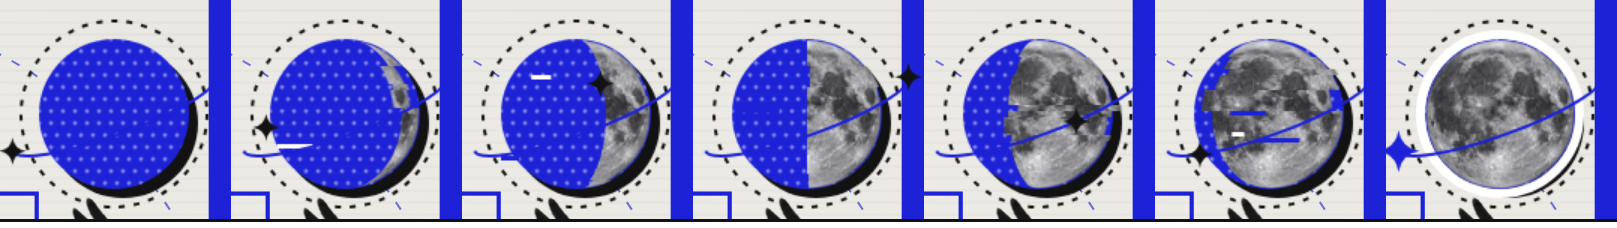
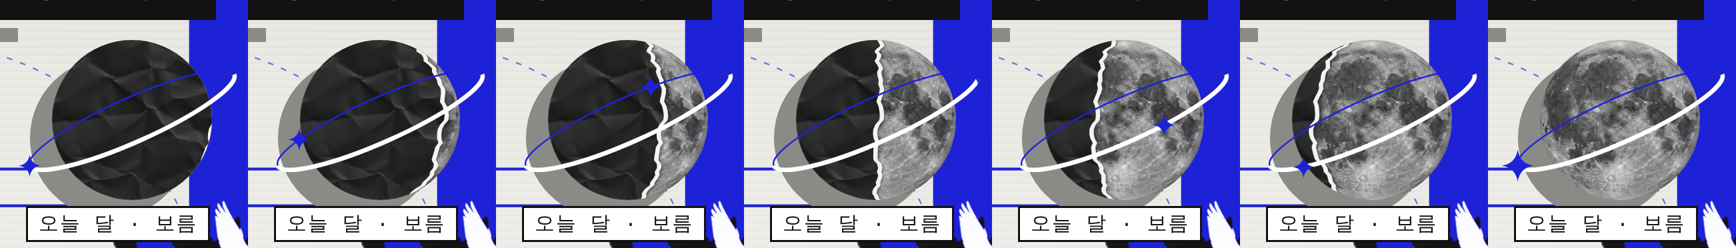
앱 시안: 달을 콜라주 조각으로 — 달 사진 위에 찢은 검은 종이(그림자), 회색 원, 흰 궤도와 파란 별
Claude-Session: https://claude.ai/code/session_015z2jERGhkXRnxmKCmzk3Uw

diff --git a/work/celeste/app/index.html b/work/celeste/app/index.html
@@ -34,8 +34,8 @@
   #time{justify-self:start;font:400 clamp(54px,17vw,88px)/.95 var(--serif);letter-spacing:-.02em;font-variant-numeric:lining-nums tabular-nums;
     margin-top:6px;background:var(--paper2);padding:4px 10px 2px;box-shadow:6px 6px 0 var(--bleu)}
   #time span{color:var(--bleu)}
-  #moonBox{display:flex;flex-direction:column;align-items:center;gap:2px;padding-bottom:4px}
-  #moon{width:76px;height:76px;display:block;margin:-6px 0 -4px}
+  #moonBox{position:relative;z-index:-1;display:flex;flex-direction:column;align-items:center;gap:2px;padding-bottom:4px}
+  #moon{width:124px;height:124px;display:block;margin:-26px -16px -22px -10px}
   #moonTxt{font:10px 'American Typewriter','Courier New',monospace;letter-spacing:.06em;color:var(--ink);white-space:nowrap;background:#fff;padding:1px 5px;outline:1px solid var(--ink)}
   #row{grid-column:1/3;display:flex;gap:8px;align-items:center;margin-top:10px;background:var(--paper2);padding:4px 6px 4px 10px;outline:1px solid var(--ink)}
   #subject{flex:1;min-width:0;border:0;border-bottom:1px solid var(--ink);background:none;font:16px var(--sans);padding:6px 0;
@@ -163,55 +163,44 @@ function moonPath(lit, r = 40){
   const rx = Math.abs(1 - 2*lit)*r, sweep = lit < .5 ? 0 : 1;      // 반달 전엔 그림자 경계가 오른쪽으로, 지나면 왼쪽으로 부푼다
   return `M0 ${-r} A${r} ${r} 0 0 1 0 ${r} A${rx} ${r} 0 0 ${sweep} 0 ${-r}Z`;
 }
-/* 콜라주 달: 밝은 쪽 = 달 사진(흑백), 그림자 쪽 = 클랭 블루 망점 종이.
-   경계는 가로 조각으로 어긋나는 글리치, 작은 궤도와 별이 진행도만큼 돈다. 보름이 되면 흰 스티커 테두리 */
-let moonImg = null, moonLast = '';
-loadImg(PARTS + 'obj_moon.webp').then(i=>{ moonImg = i; moonLast = ''; paint(); });
+/* 콜라주 달: 흑백 달 사진 위에 구겨진 검은 종이를 찢어 덮는다(그림자 쪽).
+   찢긴 경계엔 흰 종이 섬유 + 얇은 그림자. 뒤엔 비켜 놓은 회색 원, 흰 궤도 위 파란 별이 진행도만큼 돈다 */
+let moonImg = null, paperImg = null, moonLast = '';
+Promise.all([loadImg(PARTS + 'obj_moon.webp'), loadImg(PARTS + 'paperBlack.webp')]).then(([m, b])=>{ moonImg = m; paperImg = b; moonLast = ''; paint(); });
+const TEAR = (()=>{ const r = rngOf('tear'), a = []; let v = 0; for(let i = 0; i <= 60; i++){ v = v*.55 + (r() - .5)*2.6; a.push(v); } return a; })();
 function paintMoon(p){
-  const cv = $('moon'), dpr = Math.min(2, devicePixelRatio || 1), S = 76, key = (p*400|0) + '/' + !!moonImg;
+  const cv = $('moon'), dpr = Math.min(3, devicePixelRatio || 1), S = 124, key = (p*500|0) + '/' + !!moonImg;
   if(key === moonLast) return; moonLast = key;
   if(cv.width !== S*dpr){ cv.width = cv.height = S*dpr; }
   const g = cv.getContext('2d'); g.setTransform(dpr, 0, 0, dpr, 0, 0); g.clearRect(0, 0, S, S);
-  const c = S/2, r = 25, full = p >= 1;
-  g.save(); g.translate(c, c);
-  // 지금 느낌: 점선 원 + 얇은 바깥 원
-  g.setLineDash([2, 3]); g.strokeStyle = '#121212'; g.lineWidth = 1; g.beginPath(); g.arc(0, 0, r + 6, 0, Math.PI*2); g.stroke(); g.setLineDash([]);
-  // 파란 블록 그림자 (시간 글자와 같은 문법)
-  g.fillStyle = '#121212'; g.beginPath(); g.arc(3, 3, r, 0, Math.PI*2); g.fill();
-  // 그림자 쪽: 클랭 블루 + 흰 망점
-  g.fillStyle = B; g.beginPath(); g.arc(0, 0, r, 0, Math.PI*2); g.fill();
-  g.save(); g.clip(); g.fillStyle = '#ffffff66';
-  for(let y = -r; y <= r; y += 4) for(let x = -r + ((y/4) & 1)*2; x <= r; x += 4){ g.beginPath(); g.arc(x, y, .75, 0, Math.PI*2); g.fill(); }
+  const c = S/2, r = 40;
+  g.save(); g.translate(c + 4, c - 2);
+  g.fillStyle = '#8a8a86'; g.beginPath(); g.arc(-11, 9, r, 0, Math.PI*2); g.fill();          // 비켜 놓은 회색 원
+  g.save(); g.beginPath(); g.arc(0, 0, r, 0, Math.PI*2); g.clip();
+  if(moonImg){ g.filter = 'grayscale(1) contrast(1.15)'; g.drawImage(moonImg, -r - 1, -r - 1, 2*r + 2, 2*r + 2); g.filter = 'none'; }
+  else { g.fillStyle = '#bbb'; g.fillRect(-r, -r, 2*r, 2*r); }
+  if(p < 1){
+    // 그림자 쪽 모양: 왼쪽 바깥 반원 + 찢긴 경계(위→아래)
+    const rx = Math.abs(1 - 2*p)*r, dir = p < .5 ? 1 : -1;
+    const shape = dx=>{ g.beginPath(); g.arc(0, 0, r + 4, Math.PI/2, Math.PI*1.5);
+      for(let i = 0; i <= 60; i++){ const f = -Math.PI/2 + i/60*Math.PI, y = Math.sin(f)*(r + 4);
+        g.lineTo(dir*rx*Math.cos(f) + TEAR[i] + dx, y); }
+      g.closePath(); };
+    g.save(); g.shadowColor = '#0007'; g.shadowBlur = 4; g.shadowOffsetX = 1.5; g.shadowOffsetY = 1;
+    shape(2.2); g.fillStyle = '#f4f3ef'; g.fill(); g.restore();                              // 흰 섬유 가장자리
+    shape(0); g.save(); g.clip();
+    if(paperImg) g.drawImage(paperImg, 20, 40, 300, 300, -r - 6, -r - 6, 2*r + 12, 2*r + 12); else { g.fillStyle = '#1b1b1b'; g.fill(); }
+    g.restore();
+  }
   g.restore();
-  // 밝은 쪽: 달 사진을 위상 모양으로 오려서 가로 조각마다 살짝 어긋나게
-  if(p > 0 && moonImg){
-    const o = document.createElement('canvas'); o.width = o.height = Math.ceil(2*r*dpr);
-    const q = o.getContext('2d'); q.setTransform(dpr, 0, 0, dpr, r*dpr, r*dpr);
-    const rx = Math.abs(1 - 2*p)*r;
-    q.beginPath(); q.arc(0, 0, r, -Math.PI/2, Math.PI/2);
-    if(p < .5) q.ellipse(0, 0, Math.max(rx, .01), r, 0, Math.PI/2, -Math.PI/2, true);
-    else q.ellipse(0, 0, Math.max(rx, .01), r, 0, Math.PI/2, Math.PI*1.5, false);
-    q.closePath(); q.clip();
-    q.filter = 'grayscale(1) contrast(1.25) brightness(1.05)'; q.drawImage(moonImg, -r, -r, 2*r, 2*r); q.filter = 'none';
-    const rnd = rngOf('moon' + Math.floor(p*40));
-    for(let y = -r; y < r;){
-      const h = 2 + Math.floor(rnd()*6), dx = full ? 0 : rnd() < .28 ? (rnd() - .5)*7 : 0;
-      g.drawImage(o, 0, (y + r)*dpr, o.width, h*dpr, -r + dx, y, 2*r, h);
-      if(!full && rnd() < .07){ g.fillStyle = rnd() < .5 ? '#fff' : B; g.fillRect(-r + rnd()*r, y, 4 + rnd()*12, 1.5); }
-      y += h;
-    }
-  }
-  if(full){                                            // 보름: 흰 스티커 테두리
-    g.strokeStyle = '#fff'; g.lineWidth = 3; g.beginPath(); g.arc(0, 0, r + 1.5, 0, Math.PI*2); g.stroke();
-  }
-  // 작은 궤도: 뒤 반은 달 아래로 가려진 것처럼 흐리게, 앞 반은 진하게. 별은 진행도만큼 돈다
-  g.rotate(-.35);
-  g.strokeStyle = B; g.lineWidth = 1;
-  g.beginPath(); g.ellipse(0, 0, r + 11, 7, 0, 0, Math.PI); g.stroke();
-  const a = Math.PI + p*Math.PI*2, sx = Math.cos(a)*(r + 11), sy = Math.sin(a)*7, R5 = full ? 7 : 4.5, k = R5*.13;
-  g.save(); g.translate(sx, sy); g.rotate(.35); g.fillStyle = full ? B : '#121212';
+  // 흰 궤도(앞쪽 반만 달 위로) + 진행도 별
+  g.rotate(-.42); const orx = r + 16, ory = 11;
+  g.strokeStyle = '#fff'; g.lineWidth = 2.2; g.beginPath(); g.ellipse(0, 0, orx, ory, 0, 0, Math.PI); g.stroke();
+  g.strokeStyle = B; g.lineWidth = .8; g.beginPath(); g.ellipse(0, 0, orx, ory, 0, Math.PI, Math.PI*2); g.stroke();
+  const a = Math.PI + p*Math.PI*2, R5 = p >= 1 ? 8 : 5.5, k = R5*.13;
+  g.translate(Math.cos(a)*orx, Math.sin(a)*ory); g.rotate(.42); g.fillStyle = B;
   g.beginPath(); g.moveTo(0, -R5); g.quadraticCurveTo(k, -k, R5, 0); g.quadraticCurveTo(k, k, 0, R5); g.quadraticCurveTo(-k, k, -R5, 0); g.quadraticCurveTo(-k, -k, 0, -R5); g.fill();
-  g.restore(); g.restore();
+  g.restore();
 }
 
 /* ═══ 오늘의 콜라주 (화면 전체) ═══
